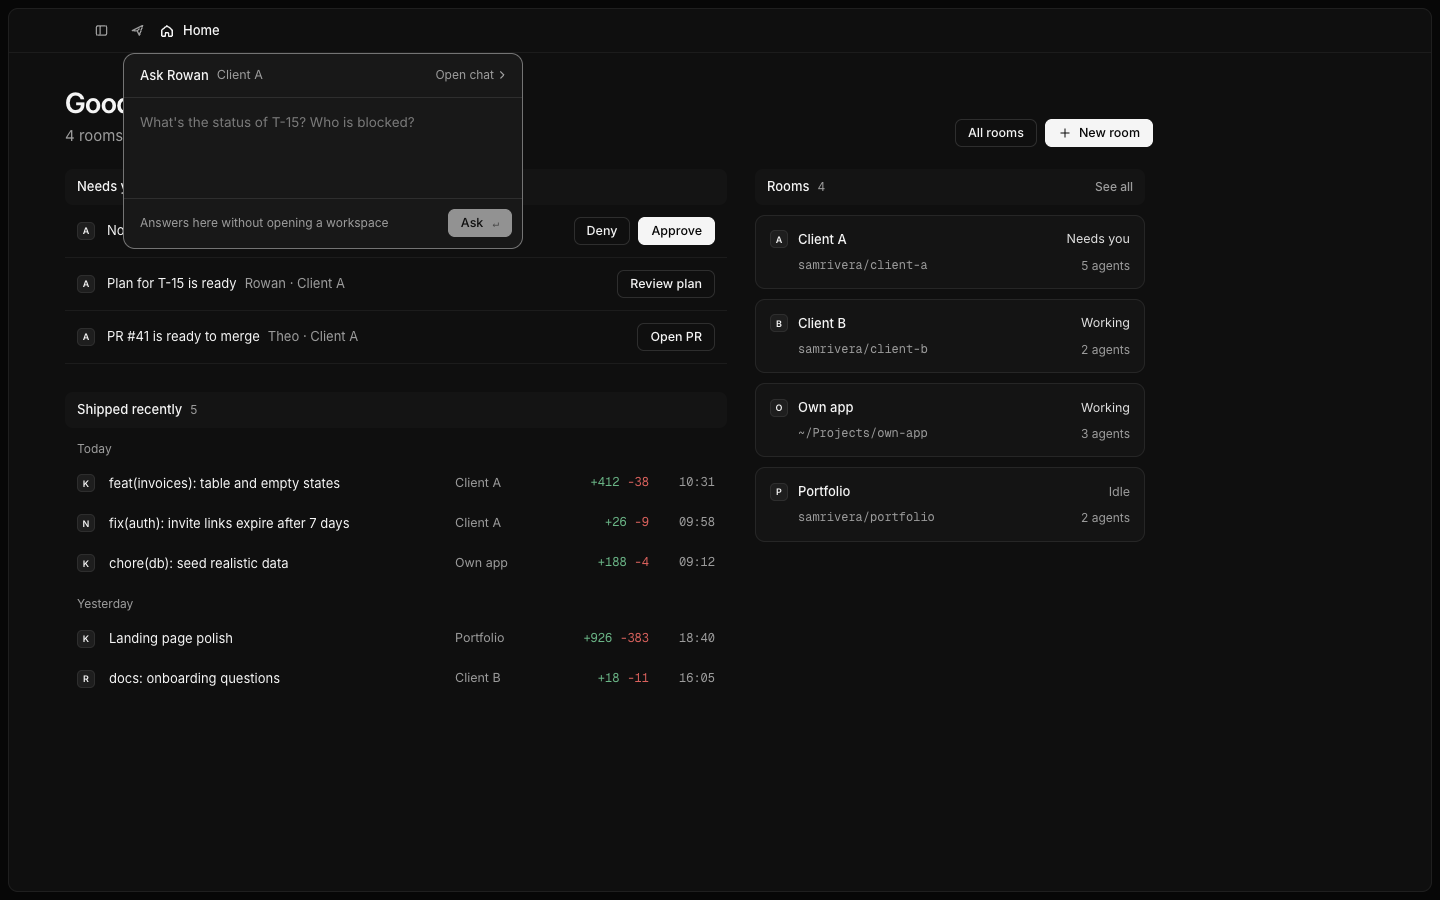
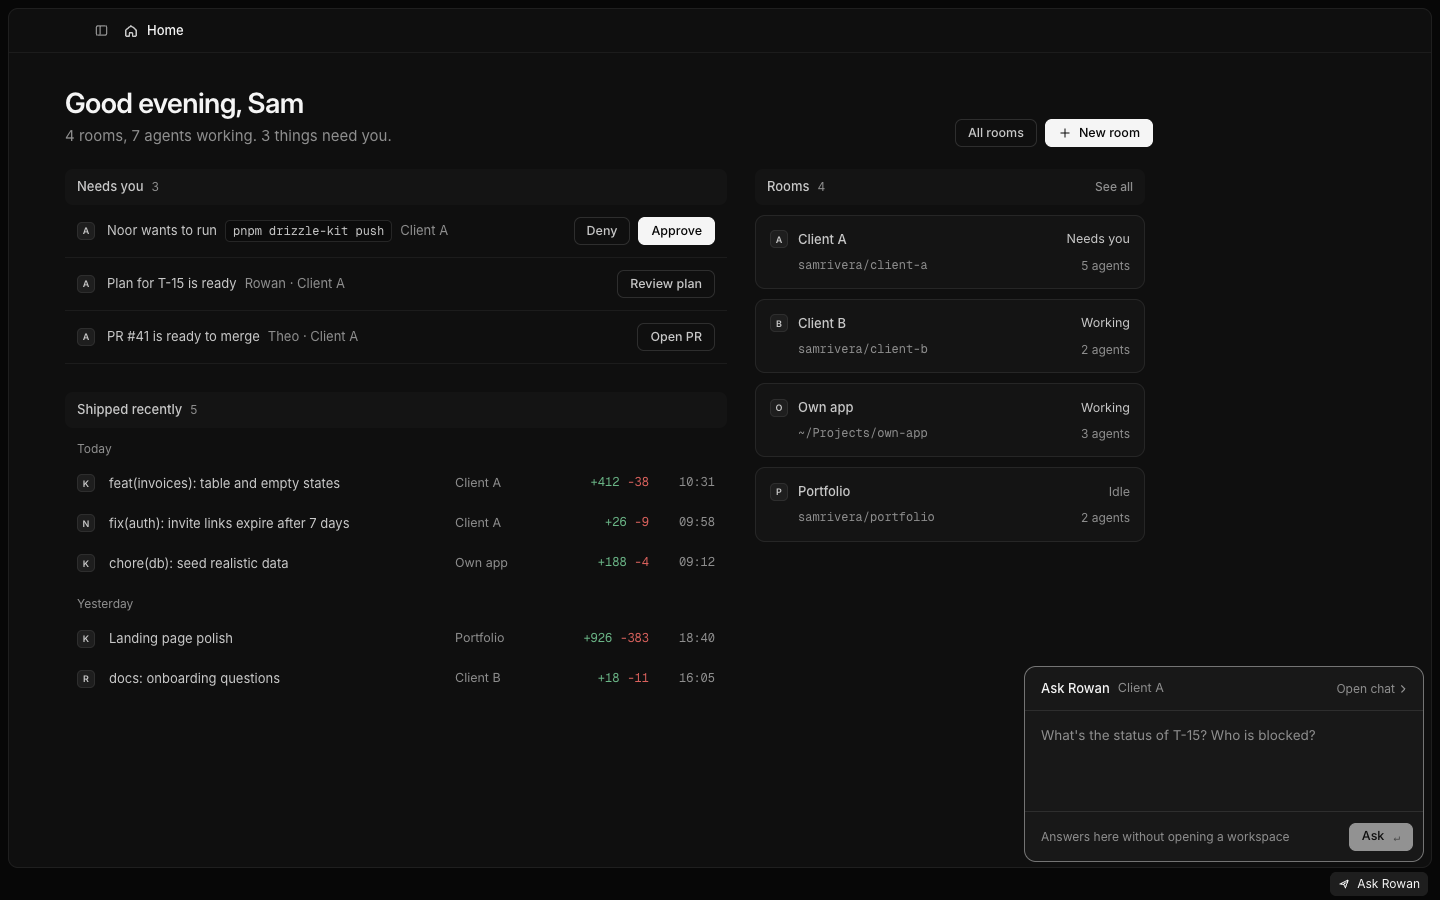
feat(workspace): the footer is back, with Ask Rowan, the update pill and the warnings (KERNEL-588)
A 32px strip under the main panel again: hooks down and GitHub paused on
the left while they hold, the update pill and Ask Rowan with its label on
the right. The sidebar's bottom row and the header lose what KERNEL-527
moved there. Amends KERNEL-527.

diff --git a/src/renderer/src/components/footer/footer.css b/src/renderer/src/components/footer/footer.css
@@ -1,7 +1,8 @@
-/* Ask Rowan, the update pill and the warnings that used to fill the footer (KERNEL-21, KERNEL-527). Tokens only. */
-/* Hooks down and GitHub paused, a row above the sidebar's bottom row. Empty, it takes no room. */
-.sb-alerts { display: flex; flex-direction: column; align-items: flex-start; gap: 2px; padding: 0 4px; }
-.sb-alerts:not(:has(button, .ft-paused)) { display: none; }
+/* Footer, Ask Rowan and the update pill (KERNEL-21, KERNEL-588). Tokens only. */
+.ft { padding: 0 4px 0 8px; }
+.ft-btn { display: inline-flex; align-items: center; gap: 7px; height: 24px; padding: 0 8px; border: 0; border-radius: 6px; background: transparent; color: var(--ink-2); font-size: 12px; }
+.ft-btn:hover, .ft-btn[aria-expanded='true'] { background: var(--surface-3); color: var(--ink); }
+.ft-btn:focus-visible { outline-offset: 2px; }
 .ft-hooks { display: inline-flex; align-items: center; gap: 8px; color: var(--muted); }
 .ft-down { height: 24px; padding: 0 6px; margin-left: -6px; border: 0; border-radius: 6px; background: transparent; color: var(--ink-2); font-size: 12px; }
 .ft-down:hover { background: var(--surface-3); }
@@ -19,7 +20,7 @@
 
 /* Ask Rowan (KERNEL-274): a layer of its own, inset from the panel's edge. The field is the popover's middle, with no box
    inside the box; hairlines split the header, the field and the footer. */
-.qa { position: absolute; z-index: 60; left: 0; bottom: calc(100% + 10px); width: 400px; display: flex; flex-direction: column; overflow: hidden; border-radius: var(--r-lg); border: 1px solid var(--line-4); background: var(--surface-2); }
+.qa { position: absolute; z-index: 60; right: 4px; bottom: calc(100% + 10px); width: 400px; display: flex; flex-direction: column; overflow: hidden; border-radius: var(--r-lg); border: 1px solid var(--line-4); background: var(--surface-2); }
 /* Focus shows on the popover's border, since the field has no box of its own to ring. */
 .qa:has(.qa-text:focus) { border-color: color-mix(in srgb, var(--ink) 30%, var(--line-4)); }
 .qa .qa-text:focus-visible { outline: none; }
@@ -39,6 +40,5 @@
 .qa-foot { display: flex; align-items: center; gap: 8px; min-height: 50px; padding: 0 10px 0 16px; border-top: 1px solid var(--line-3); }
 .qa-note { font-size: 12px; color: var(--muted); }
 .qa-kbd { margin-left: 2px; font: 400 11px var(--mono); opacity: 0.55; }
-/* From the header (sidebar hidden) the popover opens down instead of up. */
-.header .qa { top: calc(100% + 8px); bottom: auto; }
-.header .ft-pill { height: 24px; }
+/* The pill fits the 32px footer. */
+.ft .ft-pill { height: 24px; }

diff --git a/src/renderer/src/components/sidebar/AppSidebar.tsx b/src/renderer/src/components/sidebar/AppSidebar.tsx
@@ -14,9 +14,6 @@ import { archiveByHand } from '../../screens/workspace/byHand'
 import { AccountButton } from './AccountMenu'
 import { chatTrusts, chatWaits } from './chatWaits'
 import { PlanButton } from './PlanMenu'
-import { SidebarAlerts } from '../footer/Footer'
-import { AskRowanButton } from '../footer/QuickAsk'
-import { UpdatePill } from '../footer/UpdatePill'
 import { RoomMenu } from './RoomMenu'
 import { RoomsMenu } from './RoomsMenu'
 import { liveWorkspaces, mergeChatList, openRow, rowHolder, sidebarRows, slotKey, slotsFor, type Slot } from './slots'
@@ -300,8 +297,6 @@ export function AppSidebar() {
   const hints = useCmdHeld()
   const roomsMenu = useStore((s) => s.ui.menu === 'rooms')
   const plan = useStore((s) => s.account?.plan)
-  const update = useStore((s) => s.system.update?.status === 'ready')
-  const onFloor = useStore((s) => s.ui.route.name === 'floor')
   const roomsAnchor = useRef<HTMLDivElement>(null)
   const [chosen, setChosen] = useState(readExpanded)
   const openRoom = 'roomId' in route ? route.roomId : route.name === 'workspace' ? workspaces.find((w) => w.id === route.workspaceId)?.roomId : rooms[0]?.id
@@ -377,13 +372,10 @@ export function AppSidebar() {
         })}
       </div>
       <div style={{ flex: 1 }} />
-      <SidebarAlerts />
-      {/* The plan on the left, or the update pill once an update is ready; Ask Rowan, What's new and Settings on the right, as in
-          Conductor. There is no footer, so this row holds what it did (KERNEL-527). The floor's brief box already talks to Rowan. */}
+      {/* The plan on the left, What's new and Settings on the right, as in Conductor. Ask Rowan and the update pill are in the footer (KERNEL-588). */}
       <div className="sb-foot">
-        {update ? <UpdatePill /> : plan && <PlanButton plan={plan} />}
+        {plan && <PlanButton plan={plan} />}
         <span className="grow" />
-        {!onFloor && <AskRowanButton />}
         <IconButton icon="sparkle" label="What's new" onClick={() => actions.ui.openModal({ name: 'whatsNew' })} />
         <IconButton icon="sliders" label="Settings" data-tip-kbd="⌘," onClick={() => actions.ui.openSettings()} />
       </div>

diff --git a/src/renderer/src/components/footer/Footer.tsx b/src/renderer/src/components/footer/Footer.tsx
@@ -1,19 +1,23 @@
 import { actions, useStore } from '../../store'
 import { Icon } from '../../ui'
 import { githubPause } from './model'
+import { AskRowanButton } from './QuickAsk'
+import { UpdatePill } from './UpdatePill'
 import './footer.css'
 
 /**
- * What the footer used to warn about, now a row just above the sidebar's bottom row (KERNEL-527): hook health only when the hook
- * server is down (D-082; Settings, Hooks has the port and status), and a GitHub rate limit holding PR reads off until it ends
- * (KERNEL-401). With the sidebar hidden, the chat's banners say the same. Ask Rowan and the update pill sit in the bottom row itself.
+ * The 32px strip under every main panel (KERNEL-588). Health shows on the left only while something is wrong: the hook server down
+ * (D-082; Settings, Hooks has the port and status) or a GitHub rate limit holding PR reads off until it ends (KERNEL-401). On the right,
+ * the update pill once an update is ready, then Ask Rowan. It sits in the same place whatever is hidden. Ask Rowan is off the floor,
+ * where the brief box already talks to Rowan.
  */
-export function SidebarAlerts() {
+export function Footer() {
   const down = useStore((s) => s.system.hooks?.listening === false)
   const github = useStore((s) => s.system.github)
+  const onFloor = useStore((s) => s.ui.route.name === 'floor')
   const paused = githubPause(github, Date.now())
   return (
-    <div className="sb-alerts">
+    <footer className="footer ft">
       {down && <button type="button" className="ft-hooks ft-down" onClick={() => actions.ui.openModal({ name: 'checkHooks' })}><Icon name="plug" size={13} />Hooks down<span className="ft-fix">Check hooks</span></button>}
       {/* Always mounted, so a screen reader hears the pause start. The item does nothing, so it is no button; Tab reaches its tooltip. */}
       <span role="status" className="ft-status">
@@ -24,6 +28,9 @@ export function SidebarAlerts() {
           </span>
         )}
       </span>
-    </div>
+      <span className="grow" />
+      <UpdatePill />
+      {!onFloor && <AskRowanButton />}
+    </footer>
   )
 }

diff --git a/fixtures/team.ts b/fixtures/team.ts
@@ -569,7 +569,7 @@ export const teamFixtures: Record<string, Fixture> = {
     { id: 'cli', provider: 'codex', label: 'samrivera', email: 'sam@example.com', plan: 'ChatGPT Plus', cli: true, auth: 'subscription', active: true, signedIn: true }
   ], ui: { ...home, menu: 'account' } })),
   QuickAsk: scene((f) => ({ ...homeScene(f), ui: { ...home, menu: 'quickAsk' } })),
-  // With the sidebar hidden, Ask Rowan follows Show sidebar in the header and its popover opens down (KERNEL-527).
+  // With the sidebar hidden, Ask Rowan stays in the footer, the same place as with it open (KERNEL-588).
   QuickAskNoSidebar: scene((f) => ({ ...homeScene(f), ui: { ...home, sidebar: false, menu: 'quickAsk' } })),
   // No PNG: the popover reopened after a question, with Rowan's answer in (KERNEL-146).
   QuickAskAnswered: scene((f) => ({
@@ -611,7 +611,7 @@ export const teamFixtures: Record<string, Fixture> = {
     ui: { route: { name: 'team', roomId: ids.roomA }, modal: { name: 'confirm', kind: 'issueTaken', issue: 'KERNEL-31', findings: [{ kind: 'branch', ref: 'origin/feat/kernel-31-export-pdf' }, { kind: 'pr', number: 41, title: 'Export invoices as PDF' }, { kind: 'assignee', name: 'Maya Chen' }], held: invoicePdfChat } }
   })),
   UpdateReady: scene((f) => ({ ...homeScene(f), update: { status: 'ready', current: '0.1.0', version: '0.2.0' }, ui: home })),
-  // The update pill joins Ask Rowan in the header while the sidebar is hidden (KERNEL-527).
+  // The update pill stays in the footer, before Ask Rowan, while the sidebar is hidden (KERNEL-588).
   UpdateReadyNoSidebar: scene((f) => ({ ...homeScene(f), update: { status: 'ready', current: '0.1.0', version: '0.2.0' }, ui: { ...home, sidebar: false } })),
   HomeEmpty: scene(() => ({ ...empty, ui: { route: { name: 'home' } } })),
   Inbox: scene((f) => ({ ...homeScene(f), ui: { route: { name: 'inbox' } } })),

diff --git a/src/renderer/src/components/PanelToggles.tsx b/src/renderer/src/components/PanelToggles.tsx
@@ -1,8 +1,6 @@
 import { useEffect } from 'react'
 import { actions, getState, useStore } from '../store'
 import { IconButton } from '../ui'
-import { AskRowanButton } from './footer/QuickAsk'
-import { UpdatePill } from './footer/UpdatePill'
 
 /** Window widths below which a panel folds: the right panel first, then the sidebar (D-080). */
 const FOLD_BELOW = { rightPanel: 1024, sidebar: 900 } as const
@@ -32,21 +30,10 @@ export const toggleFocus = () => {
   actions.ui.setRightPanel(!sidebar && !rightPanel)
 }
 
-/**
- * First in every screen header. Shows only while the sidebar is hidden, right of the traffic lights, and brings it back (Cmd+B).
- * What the sidebar's bottom row holds that can't wait comes along: Ask Rowan, and the update pill once an update is ready (KERNEL-527).
- */
+/** First in every screen header. Shows only while the sidebar is hidden, right of the traffic lights, and brings it back (Cmd+B). */
 export function SidebarToggle() {
   const open = useStore((s) => s.ui.sidebar)
-  const onFloor = useStore((s) => s.ui.route.name === 'floor')
-  if (open) return null
-  return (
-    <>
-      <IconButton icon="sidebar" size={15} label="Show sidebar" data-tip-kbd="⌘B" onClick={() => actions.ui.setSidebar(true)} />
-      {!onFloor && <AskRowanButton />}
-      <UpdatePill />
-    </>
-  )
+  return open ? null : <IconButton icon="sidebar" size={15} label="Show sidebar" data-tip-kbd="⌘B" onClick={() => actions.ui.setSidebar(true)} />
 }
 
 /** Last in the header of a screen with a right panel (Cmd+Shift+B, or Cmd+Option+B). `name` is what the panel holds, for the label. */

diff --git a/src/renderer/src/tokens.css b/src/renderer/src/tokens.css
@@ -232,7 +232,9 @@ input::placeholder, textarea::placeholder { color: var(--muted); }
 .app { display: flex; height: 100%; }
 .drag { -webkit-app-region: drag; }
 .nodrag { -webkit-app-region: no-drag; }
-.main { flex: 1; min-width: 0; display: flex; flex-direction: column; padding: 8px 8px 8px 0; }
+.main { flex: 1; min-width: 0; display: flex; flex-direction: column; padding: 8px 8px 0 0; }
+/* The 32px strip under the main panel: health on the left, the update pill and Ask Rowan on the right (KERNEL-588). */
+.footer { height: 32px; flex-shrink: 0; display: flex; align-items: center; gap: 4px; font-size: 12px; color: var(--muted); }
 .panel { position: relative; flex: 1; min-height: 0; display: flex; flex-direction: column; background: var(--panel); border: 1px solid var(--panel-line); border-radius: var(--r-md); overflow: hidden; }
 /* Every screen is a size container named panel, so `@container panel (max-width: ...)` lays it out for the space it has, sidebar or not (D-084). */
 .panel { container: panel / inline-size; }

diff --git a/src/renderer/src/App.tsx b/src/renderer/src/App.tsx
@@ -2,7 +2,7 @@ import { Suspense, createElement, lazy, useEffect, useState, type ComponentType,
 import type { DevUiPage, Modal, Route } from '@shared/types'
 import { call } from './api'
 import { toggleFocus, toggleRightPanel, toggleSidebar, useFoldPanels } from './components/PanelToggles'
-import { Sidebar } from './components/Shell'
+import { Footer, Sidebar } from './components/Shell'
 import { Toasts } from './components/Toasts'
 import { ConfirmBypass } from './components/ConfirmBypass'
 import { askAboutTelemetry, TelemetryAsk } from './components/TelemetryAsk'
@@ -246,6 +246,7 @@ export function App() {
         {column && <Sidebar settingsList={route.name === 'settings' ? <SettingsNav page={route.page} roomId={route.roomId} section={route.section} /> : undefined} />}
         <div className="main" style={fullWindow(route) ? { padding: 8 } : undefined}>
           <Screen route={route} />
+          {!fullWindow(route) && <Footer />}
         </div>
         {modal && <ModalView modal={modal} />}
         <Toasts />

diff --git a/src/renderer/src/components/footer/QuickAsk.tsx b/src/renderer/src/components/footer/QuickAsk.tsx
@@ -111,7 +111,7 @@ export function AskRowanButton() {
   const anchor = useRef<HTMLSpanElement>(null)
   return (
     <span ref={anchor} className="qa-anchor">
-      <button type="button" className="icon-btn" aria-label={`Ask ${name}`} data-tip={`Ask ${name}`} aria-haspopup="dialog" aria-expanded={open} onClick={() => actions.ui.toggleMenu('quickAsk')}><Icon name="send" size={15} /></button>
+      <button type="button" className="ft-btn" aria-haspopup="dialog" aria-expanded={open} onClick={() => actions.ui.toggleMenu('quickAsk')}><Icon name="send" size={12} />Ask {name}</button>
       {open && <QuickAsk onClose={actions.ui.closeMenu} anchorRef={anchor} />}
     </span>
   )

diff --git a/src/renderer/src/components/Shell.tsx b/src/renderer/src/components/Shell.tsx
@@ -2,7 +2,7 @@ import { type ReactNode } from 'react'
 import { Icon } from '../icons'
 
 export { Sidebar } from './sidebar/Sidebar'
-export { SidebarAlerts } from './footer/Footer'
+export { Footer } from './footer/Footer'
 
 export function Modal({ title, onClose, children, footer, width }: { title: string; onClose: () => void; children: ReactNode; footer?: ReactNode; width?: number }) {
   return (

diff --git a/docs/SCREENS.md b/docs/SCREENS.md
@@ -60,9 +60,9 @@ These PNGs come from the app since KERNEL-97 (D-097), not from the canvas: Main,
 | SidebarRoomMenu | Room menu | [png](../design/screens/SidebarRoomMenu.png) | [dc.html](../design/canvas/project/SidebarRoomMenu.dc.html) | KERNEL-20 | Team | team + menu room:{id} | `components/sidebar/RoomMenu.tsx` |
 | AccountMenu | Account menu | [png](../design/screens/AccountMenu.png) | [dc.html](../design/canvas/project/AccountMenu.dc.html) | KERNEL-21 | Team | home + menu account | `components/sidebar/AccountMenu.tsx` |
 | QuickAsk | Ask Rowan from anywhere | [png](../design/screens/QuickAsk.png) | [dc.html](../design/canvas/project/QuickAsk.dc.html) | KERNEL-21, KERNEL-146 | Team | home + menu quickAsk | `components/footer/QuickAsk.tsx` |
-| QuickAskNoSidebar | Ask Rowan from the header, sidebar hidden | [png](../design/screens/QuickAskNoSidebar.png) | none, from the app | KERNEL-527 | Team | home, sidebar hidden + menu quickAsk | `components/PanelToggles.tsx`, `components/footer/QuickAsk.tsx` |
-| UpdateReady | Update ready in the sidebar's bottom row | [png](../design/screens/UpdateReady.png) | [dc.html](../design/canvas/project/UpdateReady.dc.html) | KERNEL-30, KERNEL-164 | Platform | home, sidebar pill and update card | `components/footer/UpdatePill.tsx`, `components/UpdateCard.tsx` |
-| UpdateReadyNoSidebar | Update ready in the header, sidebar hidden | [png](../design/screens/UpdateReadyNoSidebar.png) | none, from the app | KERNEL-527 | Platform | home, sidebar hidden, update ready | `components/PanelToggles.tsx`, `components/footer/UpdatePill.tsx` |
+| QuickAskNoSidebar | Ask Rowan from the footer, sidebar hidden | [png](../design/screens/QuickAskNoSidebar.png) | none, from the app | KERNEL-527 | Team | home, sidebar hidden + menu quickAsk | `components/footer/QuickAsk.tsx` |
+| UpdateReady | Update ready in the footer | [png](../design/screens/UpdateReady.png) | [dc.html](../design/canvas/project/UpdateReady.dc.html) | KERNEL-30, KERNEL-164 | Platform | home, footer pill and update card | `components/footer/UpdatePill.tsx`, `components/UpdateCard.tsx` |
+| UpdateReadyNoSidebar | Update ready in the footer, sidebar hidden | [png](../design/screens/UpdateReadyNoSidebar.png) | none, from the app | KERNEL-527 | Platform | home, sidebar hidden, update ready | `components/footer/UpdatePill.tsx` |
 | HomeRoomIcon | Home · room with a GitHub avatar | [png](../design/screens/HomeRoomIcon.png) | [dc.html](../design/canvas/project/HomeRoomIcon.dc.html) | KERNEL-253 | Team | home, a room with an avatar icon | `components/sidebar/Sidebar.tsx`, `screens/home/Home.tsx` |
 | Board | Board | [png](../design/screens/Board.png) | [dc.html](../design/canvas/project/Board.dc.html) | KERNEL-18 | Team | board | `screens/board/Board.tsx` |
 | TaskDetail | Task detail | [png](../design/screens/TaskDetail.png) | [dc.html](../design/canvas/project/TaskDetail.dc.html) | KERNEL-18 | Team | task | `screens/board/TaskDetail.tsx` |

diff --git a/DESIGN.md b/DESIGN.md
@@ -147,12 +147,12 @@ Five roles in both themes (KERNEL-575). A screen picks a role, not a grey, so th
 - Servers row (KERNEL-440): the hire card and the New agent review list the servers the new agent's file names, one pill each. A server that works shows its name. One that doesn't shows the amber triangle and the problem. A sentence under the row says what that means for Rowan's hand-offs.
 - Roster picker and rule conflicts (KERNEL-440): with more than about 12 agents, room setup asks who joins. The card has a search box, checkbox rows (name, role, tags, one description line, any warning) and "8 of 23 picked" with Clear and Pick the suggested 8. Kernel suggests the agents that can open pull requests. One written as a subagent with no pull request workflow starts unpicked as a Helper, with its warning. The list scrolls inside the card, so a half row shows at the bottom. The conflicts card lists each rule in CLAUDE.md or AGENTS.md that fights Kernel's workflow, with its file and line, next to what Kernel tells agents. Kernel never edits those files. Setup is taller than the window with these cards, so `RoomSetupRoster` and `RoomSetupConflicts` are drawn scrolled to the end.
 
-## No footer (KERNEL-527)
+## Footer (KERNEL-588)
 
-- There is no strip under the main panel. The panel runs to 8px above the window's bottom edge on every screen.
-- The sidebar's bottom row holds the plan chip (or the Update ready pill once an update is ready), then Ask Rowan as a send icon, What's new and Settings. Ask Rowan's popover opens up from it.
-- Hooks down and GitHub paused show as a row just above the bottom row, only while they hold.
-- With the sidebar hidden, Show sidebar starts every screen header, followed by Ask Rowan and, once an update is ready, the pill. The popover opens down from the header. The chat's banners cover hooks and GitHub there.
+- A 32px strip under the main panel on every screen but Settings and onboarding. It amends KERNEL-527, which had removed it.
+- Left: Hooks down and GitHub paused, only while they hold.
+- Right: the Update ready pill once an update is ready, then Ask Rowan with its send icon and label. Ask Rowan's popover opens up from it, at the right. Nothing moves when the sidebar or the right panel hides.
+- The sidebar's bottom row is the plan chip, What's new and Settings. With the sidebar hidden, the header starts with Show sidebar alone.
 
 ## Busy buttons
 

diff --git a/docs/decisions/KERNEL-588.md b/docs/decisions/KERNEL-588.md
@@ -1,0 +1,1 @@
+**The footer is back, 32px, and Ask Rowan lives in it.** KERNEL-527 removed the strip and put its items in the sidebar's bottom row, or in the header while the sidebar was hidden, so Ask Rowan jumped between two places. A footer gives it one home that never moves, as Linear's "Ask Linear" has. It is 32px rather than the old 40px, so it costs the panel less height. Hooks down and GitHub paused are on its left only while they hold. The update pill, then Ask Rowan with its label, are on its right. The sidebar's bottom row is the plan chip, What's new and Settings again, and Show sidebar is alone in the header. Amends KERNEL-527. KERNEL-588
